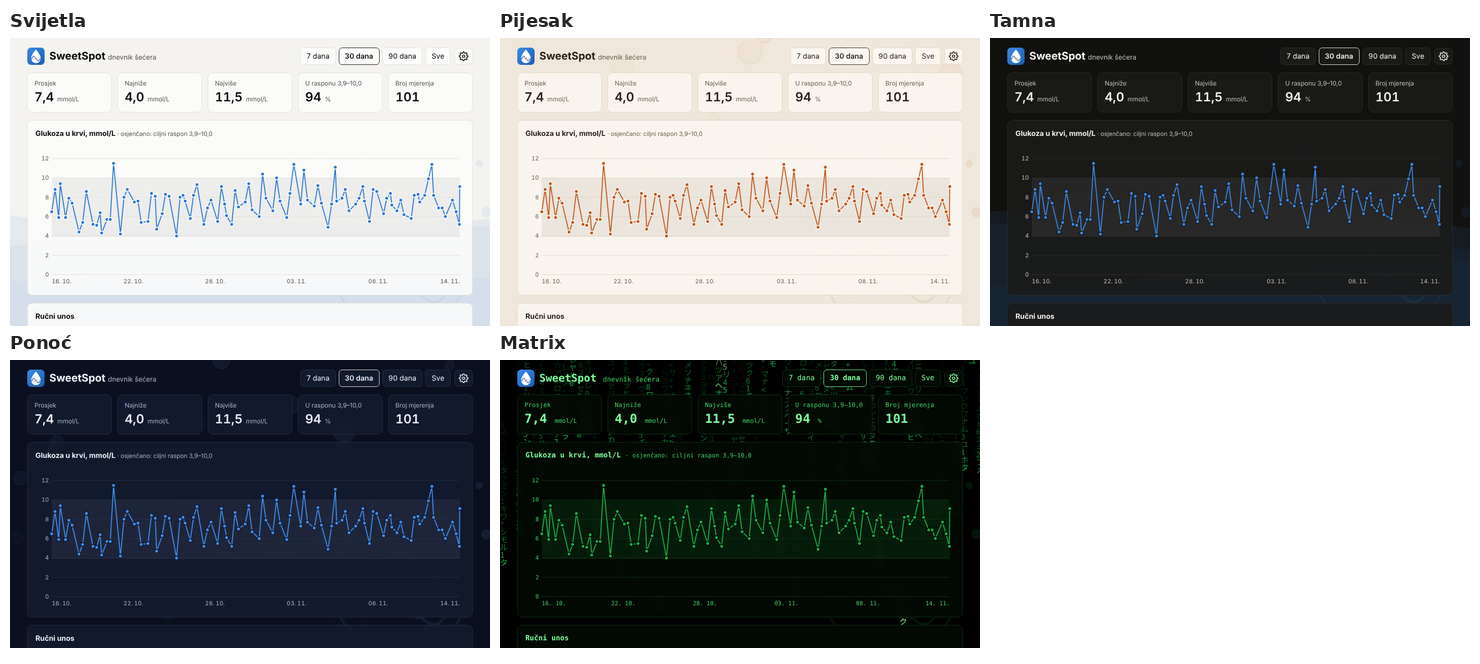
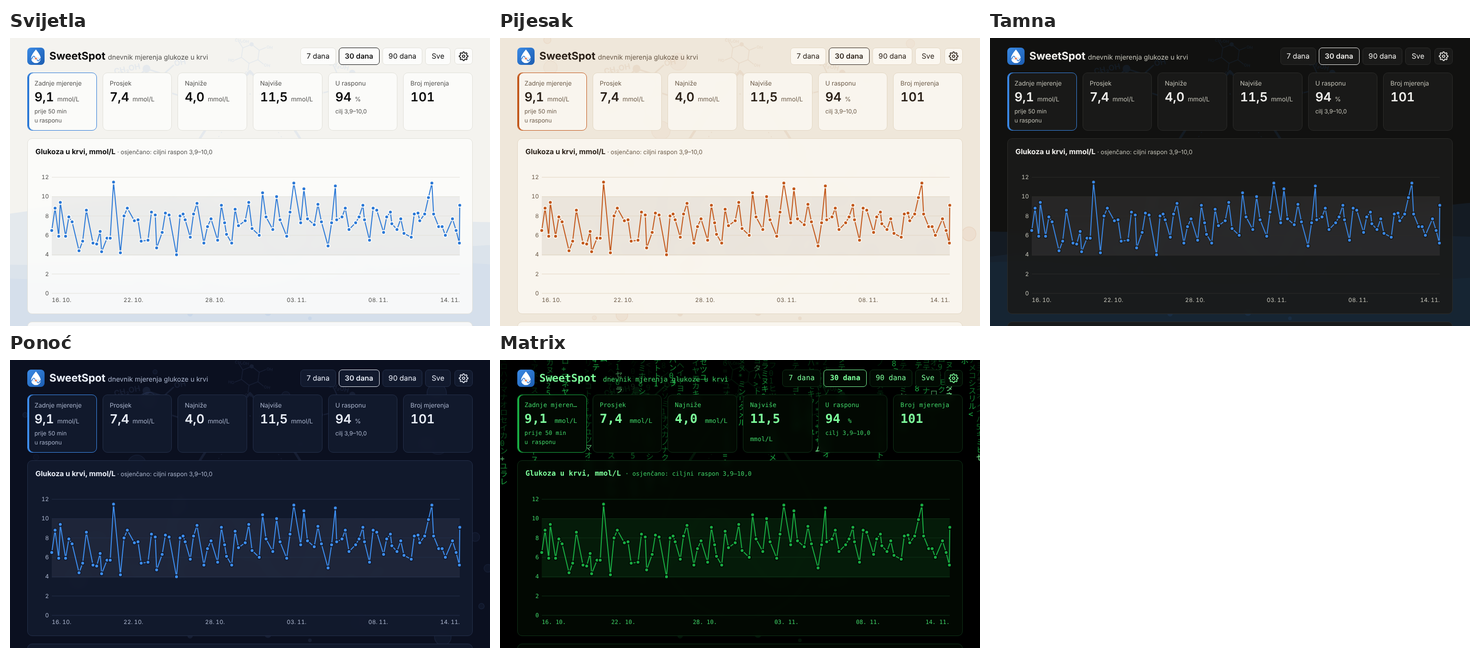
Web sučelje: veća centrirana pozadinska slika s više molekula glukoze, pločica Zadnje mjerenje, novi podnaslov (v1.6.0)
Claude-Session: https://claude.ai/code/session_019WLh2ZPH6Ey97vEFrHjawR

diff --git a/server/index.html b/server/index.html
@@ -3,7 +3,7 @@
 <head>
 <meta charset="utf-8">
 <meta name="viewport" content="width=device-width, initial-scale=1">
-<title>SweetSpot</title>
+<title>SweetSpot – dnevnik mjerenja glukoze u krvi</title>
[1 lines of base64/hex data omitted]
 <script>
   // Tema se postavlja prije iscrtavanja, da stranica ne bljesne u krivoj boji.
@@ -56,9 +56,9 @@
   main { max-width: 960px; margin: 0 auto; padding: 20px 16px 24px; position: relative; }
   #bg-anim, #bg-art { position: fixed; inset: 0; pointer-events: none; }
   #bg-anim { z-index: -2; width: 100%; height: 100%; opacity: var(--anim-opacity); }
-  #bg-art { z-index: -1; display: flex; align-items: flex-end; justify-content: flex-end; overflow: hidden;
+  #bg-art { z-index: -1; display: flex; align-items: center; justify-content: center; overflow: hidden;
             color: var(--art); opacity: var(--art-opacity); }
-  #bg-art svg { width: min(78vmin, 640px); height: auto; margin: 0 -4vmin -6vmin 0; flex: none; }
+  #bg-art svg { width: min(104vmin, 1100px); height: auto; flex: none; }
   [data-art="off"] #bg-art { display: none; }
 
   .top { display: flex; flex-wrap: wrap; gap: 12px; align-items: center; justify-content: space-between; }
@@ -76,11 +76,16 @@
   .card { border: 1px solid var(--grid); border-radius: 10px; padding: 16px; margin-top: 16px; }
   .card > header { display: flex; justify-content: space-between; align-items: center; gap: 12px; margin-bottom: 6px; }
   .card > header h2 { margin: 0; }
-  .tiles { display: grid; grid-template-columns: repeat(auto-fit, minmax(150px, 1fr)); gap: 12px; margin-top: 16px; }
+  .tiles { display: grid; grid-template-columns: repeat(auto-fit, minmax(135px, 1fr)); gap: 12px; margin-top: 16px; }
   .tile { border: 1px solid var(--grid); border-radius: 10px; padding: 12px 14px; }
-  .tile .label { color: var(--text-secondary); font-size: 13px; }
+  .tile .label { color: var(--text-secondary); font-size: 13px; white-space: nowrap; overflow: hidden; text-overflow: ellipsis; }
   .tile .value { font-size: 26px; font-weight: 600; font-variant-numeric: tabular-nums; }
   .tile .unit { font-size: 13px; color: var(--text-secondary); font-weight: 400; }
+  .tile .sub { font-size: 12px; color: var(--text-secondary); margin-top: 2px; white-space: nowrap; overflow: hidden; text-overflow: ellipsis; }
+  [data-theme="matrix"] .tile .label { font-size: 12px; }
+  [data-theme="matrix"] .tile .value { font-size: 22px; }
+  [data-theme="matrix"] .tile .unit { font-size: 12px; }
+  .tile.latest { border-color: var(--series-1); box-shadow: inset 3px 0 0 var(--series-1); }
   button, .button { font: inherit; color: var(--text-primary); background: var(--surface-solid);
           border: 1px solid var(--grid); border-radius: 7px; padding: 6px 12px; cursor: pointer; text-decoration: none; }
   button:hover, .button:hover { border-color: var(--text-secondary); }
@@ -185,32 +190,46 @@
     .long { display: none; }
     .short { display: inline; }
     .brand svg { width: 32px; height: 32px; }
+    h1 small { display: block; font-size: 13px; margin-top: 1px; }
   }
 </style>
 </head>
 <body>
 <canvas id="bg-anim" aria-hidden="true"></canvas>
 <div id="bg-art" aria-hidden="true">
-  <!-- Stilizirana pozadinska slika: kap krvi, molekula glukoze i krivulja s ciljnim pojasom -->
-  <svg viewBox="0 0 600 600" fill="none" stroke="currentColor" stroke-linecap="round" stroke-linejoin="round">
-    <path d="M330 70C330 70 150 270 150 390a180 180 0 0 0 360 0C510 270 330 70 330 70Z" stroke-width="6"/>
-    <path d="M330 120C330 120 190 285 190 390a140 140 0 0 0 280 0C470 285 330 120 330 120Z" stroke-width="2" stroke-dasharray="2 12"/>
-    <rect x="160" y="372" width="340" height="64" rx="4" fill="currentColor" fill-opacity=".18" stroke="none"/>
-    <path d="M150 455C200 455 215 330 265 330S315 405 330 405 380 490 420 490 470 395 510 395" stroke-width="7"/>
-    <circle cx="330" cy="405" r="16" fill="currentColor" stroke="none"/>
-    <circle cx="330" cy="405" r="30" stroke-width="3"/>
-    <g transform="translate(118 150)" stroke-width="5">
-      <path d="M0 -60 52 -30 52 30 0 60 -52 30 -52 -30Z"/>
-      <path d="M52 -30 90 -52M52 30 90 52M0 60 0 104M-52 30 -90 52M-52 -30 -82 -66"/>
-      <circle cx="0" cy="-60" r="13" fill="currentColor" stroke="none"/>
-    </g>
-    <g fill="currentColor" stroke="none" font-family="system-ui, sans-serif" font-weight="700" font-size="26">
-      <text x="212" y="102">OH</text><text x="212" y="216">OH</text><text x="100" y="282">OH</text>
-      <text x="-14" y="216">HO</text><text x="10" y="86">CH₂OH</text>
-    </g>
+  <!-- Stilizirana pozadinska slika: kap krvi s krivuljom i ciljnim pojasom, okružena molekulama glukoze -->
+  <svg viewBox="0 0 1000 1000" fill="none" stroke="currentColor" stroke-linecap="round" stroke-linejoin="round">
+    <defs>
+      <!-- molekula glukoze (prsten s kisikom i OH skupinama) -->
+      <symbol id="glc" viewBox="-150 -120 300 270" overflow="visible">
+        <g stroke-width="5">
+          <path d="M0 -60 52 -30 52 30 0 60 -52 30 -52 -30Z"/>
+          <path d="M52 -30 90 -52M52 30 90 52M0 60 0 104M-52 30 -90 52M-52 -30 -82 -66"/>
+          <circle cx="0" cy="-60" r="13" fill="currentColor" stroke="none"/>
+        </g>
+        <g fill="currentColor" stroke="none" font-family="system-ui, sans-serif" font-weight="700" font-size="26">
+          <text x="94" y="-48">OH</text><text x="94" y="66">OH</text><text x="-18" y="132">OH</text>
+          <text x="-132" y="66">HO</text><text x="-108" y="-64">CH₂OH</text>
+        </g>
+      </symbol>
+    </defs>
+    <path d="M500 130C500 130 235 425 235 615a265 265 0 0 0 530 0C765 425 500 130 500 130Z" stroke-width="8"/>
+    <path d="M500 205C500 205 292 450 292 615a208 208 0 0 0 416 0C708 450 500 205 500 205Z" stroke-width="2.5" stroke-dasharray="2 14"/>
+    <rect x="245" y="590" width="510" height="96" rx="6" fill="currentColor" fill-opacity=".18" stroke="none"/>
+    <path d="M235 712C310 712 332 524 407 524S482 638 500 638 575 770 635 770 712 600 765 600" stroke-width="10"/>
+    <circle cx="500" cy="638" r="22" fill="currentColor" stroke="none"/>
+    <circle cx="500" cy="638" r="42" stroke-width="4"/>
+    <use href="#glc" x="20" y="60" width="300" height="270" transform="rotate(-12 170 195)"/>
+    <use href="#glc" x="705" y="85" width="240" height="216" transform="rotate(16 825 193)"/>
+    <use href="#glc" x="35" y="700" width="230" height="207" transform="rotate(24 150 803)"/>
+    <use href="#glc" x="730" y="700" width="260" height="234" transform="rotate(-20 860 817)"/>
+    <use href="#glc" x="40" y="400" width="150" height="135" transform="rotate(40 115 467)"/>
+    <use href="#glc" x="830" y="430" width="140" height="126" transform="rotate(-34 900 493)"/>
+    <use href="#glc" x="420" y="8" width="160" height="144" transform="rotate(8 500 80)"/>
     <g fill="currentColor" stroke="none">
-      <circle cx="540" cy="120" r="10"/><circle cx="500" cy="190" r="6"/><circle cx="560" cy="250" r="14"/>
-      <circle cx="80" cy="520" r="8"/><circle cx="120" cy="575" r="5"/>
+      <circle cx="350" cy="250" r="10"/><circle cx="660" cy="300" r="7"/><circle cx="700" cy="230" r="13"/>
+      <circle cx="300" cy="940" r="9"/><circle cx="700" cy="955" r="6"/><circle cx="560" cy="935" r="12"/>
+      <circle cx="250" cy="380" r="6"/><circle cx="770" cy="380" r="8"/>
     </g>
   </svg>
 </div>
@@ -219,7 +238,7 @@
   <div class="top">
     <div class="brand">
       <svg viewBox="0 0 64 64" aria-hidden="true"><defs><linearGradient id="ss-bg" x1="0" y1="0" x2="1" y2="1"><stop offset="0" stop-color="#3b8be6"/><stop offset="1" stop-color="#1b5cb0"/></linearGradient><clipPath id="ss-drop"><path d="M32 7C32 7 14 27.5 14 39.5a18 18 0 0 0 36 0C50 27.5 32 7 32 7Z"/></clipPath></defs><rect width="64" height="64" rx="14" fill="url(#ss-bg)"/><path d="M32 7C32 7 14 27.5 14 39.5a18 18 0 0 0 36 0C50 27.5 32 7 32 7Z" fill="#fff"/><g clip-path="url(#ss-drop)"><rect x="10" y="36" width="44" height="9" fill="#2a78d6" opacity=".14"/><path d="M11 46C16 46 19 31.5 24 31.5S28.5 40.5 32 40.5 36.5 49.5 40.5 49.5 47 39 53 39" fill="none" stroke="#2a78d6" stroke-width="3" stroke-linecap="round" stroke-linejoin="round"/></g><circle cx="32" cy="40.5" r="4.2" fill="#eb6834" stroke="#fff" stroke-width="1.6"/></svg>
-      <h1>SweetSpot <small>dnevnik šećera</small></h1>
+      <h1>SweetSpot <small>dnevnik mjerenja glukoze u krvi</small></h1>
     </div>
     <div class="controls">
       <div class="ranges" role="group" aria-label="Razdoblje">
@@ -579,6 +598,18 @@ function visible() {
   return all.filter(r => r.date >= since);
 }
 
+/** Vrijeme mjerenja u odnosu na sada: "prije 25 min", "danas u 08:30", "jučer u 20:10" ili datum. */
+function since(d) {
+  const minutes = Math.round((Date.now() - d) / 6e4);
+  const day = x => new Date(x.getFullYear(), x.getMonth(), x.getDate()).getTime();
+  const today = day(new Date()), that = day(d);
+  if (minutes >= 0 && minutes < 1) return "upravo";
+  if (minutes >= 0 && minutes < 60) return `prije ${minutes} min`;
+  if (that === today) return `danas u ${fmtTime(d)}`;
+  if (today - that === 864e5) return `jučer u ${fmtTime(d)}`;
+  return `${fmtDate(d)} ${fmtTime(d)}`;
+}
+
 function render() {
   document.querySelectorAll(".ranges button").forEach(b =>
     b.setAttribute("aria-pressed", String(Number(b.dataset.days) === days)));
@@ -586,15 +617,19 @@ function render() {
   const values = rows.map(r => r.mmol);
   const avg = values.length ? values.reduce((a, b) => a + b, 0) / values.length : null;
   const inRange = values.filter(v => v >= LOW && v <= HIGH).length;
-  const tile = (label, value, unit = "") =>
-    `<div class="tile"><div class="label">${label}</div><div class="value">${value} <span class="unit">${unit}</span></div></div>`;
-  $("tiles").innerHTML = values.length ? [
+  const tile = (label, value, unit = "", sub = "", cls = "") =>
+    `<div class="tile ${cls}"><div class="label">${label}</div><div class="value">${value} <span class="unit">${unit}</span></div>${[].concat(sub).filter(Boolean).map(x => `<div class="sub">${x}</div>`).join("")}</div>`;
+  // zadnje mjerenje: najnovije od svih očitanja, neovisno o odabranom razdoblju
+  const last = all.reduce((a, r) => !a || r.date > a.date ? r : a, null);
+  const lastTile = last ? tile("Zadnje mjerenje", fmt(last.mmol), "mmol/L",
+    [since(last.date), last.mmol < LOW ? "ispod raspona" : last.mmol > HIGH ? "iznad raspona" : "u rasponu"], "latest") : "";
+  $("tiles").innerHTML = lastTile + (values.length ? [
     tile("Prosjek", fmt(avg), "mmol/L"),
     tile("Najniže", fmt(Math.min(...values)), "mmol/L"),
     tile("Najviše", fmt(Math.max(...values)), "mmol/L"),
-    tile(`U rasponu ${fmt(LOW)}–${fmt(HIGH)}`, Math.round(100 * inRange / values.length), "%"),
+    tile("U rasponu", Math.round(100 * inRange / values.length), "%", `cilj ${fmt(LOW)}–${fmt(HIGH)}`),
     tile("Broj mjerenja", values.length),
-  ].join("") : tile("Broj mjerenja", 0);
+  ].join("") : tile("Broj mjerenja", 0));
 
   $("rows").innerHTML = rows.map(r => `<tr>
       <td>${fmtDate(r.date)}${r.note ? `<div class="note-inline">${esc(r.note)}</div>` : ""}</td>

diff --git a/server/app.py b/server/app.py
@@ -1,5 +1,5 @@
 #!/usr/bin/env python3
-"""SweetSpot - dnevnik šećera: web aplikacija (API + sučelje). Samo standardna biblioteka."""
+"""SweetSpot - dnevnik mjerenja glukoze u krvi: web aplikacija (API + sučelje). Samo standardna biblioteka."""
 import base64
 import csv
 import hmac

diff --git a/README.md b/README.md
@@ -2,7 +2,7 @@
 
 <h1 align="center">SweetSpot</h1>
 
-Dnevnik šećera u krvi za vlastiti poslužitelj. Očitanja s Bluetooth aparata **Contour Next**
+Dnevnik mjerenja glukoze u krvi za vlastiti poslužitelj. Očitanja s Bluetooth aparata **Contour Next**
 automatski stižu u web aplikaciju koja radi u Dockeru.
 
 - **`server/`** – web aplikacija: grafikon, prosjeci, popis očitanja, ručni unos, izvoz u CSV, SQLite baza
